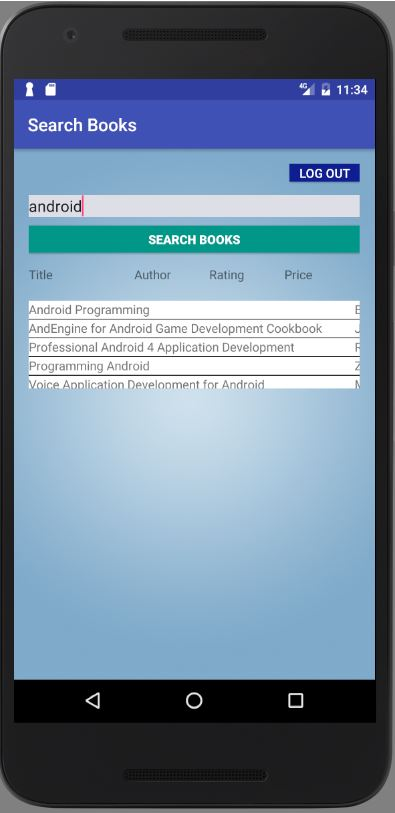
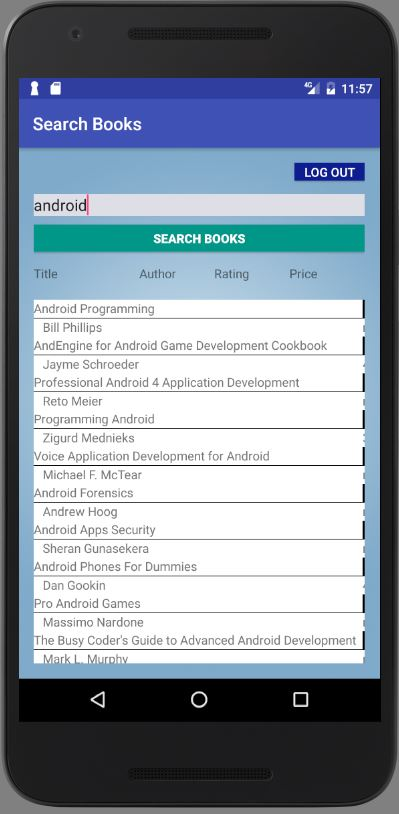
commit

diff --git a/Lab4/source/SearchApp/app/src/main/java/com/rashmi/lab4/searchapp/SearchActivity.java b/Lab4/source/SearchApp/app/src/main/java/com/rashmi/lab4/searchapp/SearchActivity.java
@@ -163,62 +163,69 @@ public class SearchActivity extends AppCompatActivity {
         for(Book book:bookList)
         {
             TableRow row= new TableRow(this);
-            /*TableRow.LayoutParams lp = new TableRow.LayoutParams(TableRow.LayoutParams.WRAP_CONTENT);
-            row.setLayoutParams(lp);*/
-            row.setBackgroundColor(Color.BLACK);
-            row.setPadding(0, 0, 0, 2); //Border between rows
+            TableRow row1= new TableRow(this);
+            TableRow row2= new TableRow(this);
+            TableRow row3= new TableRow(this);
 
-            TextView title = new TextView(this);
+            tableRowSettings(row);
+
+
             ImageView bookImage = new ImageView(this);
 
-            TextView author = new TextView(this);
-            TextView rating = new TextView(this);
-            TextView price=new TextView(this);
-
-            // bookImage.setImageResource(book.getImage_url());
-            title.setText(book.getTitle()+" ");
-            author.setText(book.getAuthor()+" ");
-            rating.setText(book.getRating()+" ");
-            price.setText(book.getAmount()+" ");
-
-            title.setPadding(0, 0, 1, 3);
-            author.setPadding(0, 0, 1, 3);
-            rating.setPadding(0, 0, 1, 3);
-            price.setPadding(0, 0, 1, 3);
-
-            //New Cell
-            LinearLayout cell1 = new LinearLayout(this);
-            cell1.setBackgroundColor(Color.WHITE);
-            cell1.addView(title);
+            LinearLayout cell1=createCell(book.getTitle(),0);
 
 
-            LinearLayout cell2 = new LinearLayout(this);
-            cell2.setBackgroundColor(Color.WHITE);
+            LinearLayout cell2=createCell(book.getAuthor(),1);
+            LinearLayout cell3=createCell(book.getRating(),0);
+            LinearLayout cell4=createCell(book.getAmount(),0);
 
-            cell2.addView(author);
-
-            LinearLayout cell3 = new LinearLayout(this);
-            cell3.setBackgroundColor(Color.WHITE);
-
-            cell3.addView(rating);
-
-            LinearLayout cell4 = new LinearLayout(this);
-            cell4.setBackgroundColor(Color.WHITE);
-
-
-            cell4.addView(price);
 
             row.addView(cell1);
-            row.addView(cell2);
-            row.addView(cell3);
-            row.addView(cell4);
+            row1.addView(cell2);
+            row1.addView(cell3);
+            row1.addView(cell4);
 
             Log.d("add",book.getTitle());
 
             tl.addView(row,i);
-            i++;
+            tl.addView(row1,i+1);
+
+
+            i=i+2;
         }
     }
+
+
+    public void tableRowSettings(TableRow row)
+    {
+        row.setBackgroundColor(Color.BLACK);
+        row.setPadding(0, 0, 0, 2); //Border between rows
+    }
+
+    public LinearLayout createCell(String text,int i)
+    {
+
+        TextView tv = new TextView(this);
+        tv.setPadding(0, 0, 1, 3);
+
+        if(i==1)
+        {
+            tv.setText("   "+text+"  ");
+        }else
+        {
+            tv.setText(text+"  ");
+        }
+
+
+
+        LinearLayout cell = new LinearLayout(this);
+        cell.setBackgroundColor(Color.WHITE);
+        cell.addView(tv);
+        return cell;
+
+
+    }
+
 
     public void logout(View v) {
         Intent redirect = new Intent(SearchActivity.this, LoginActivity.class);
